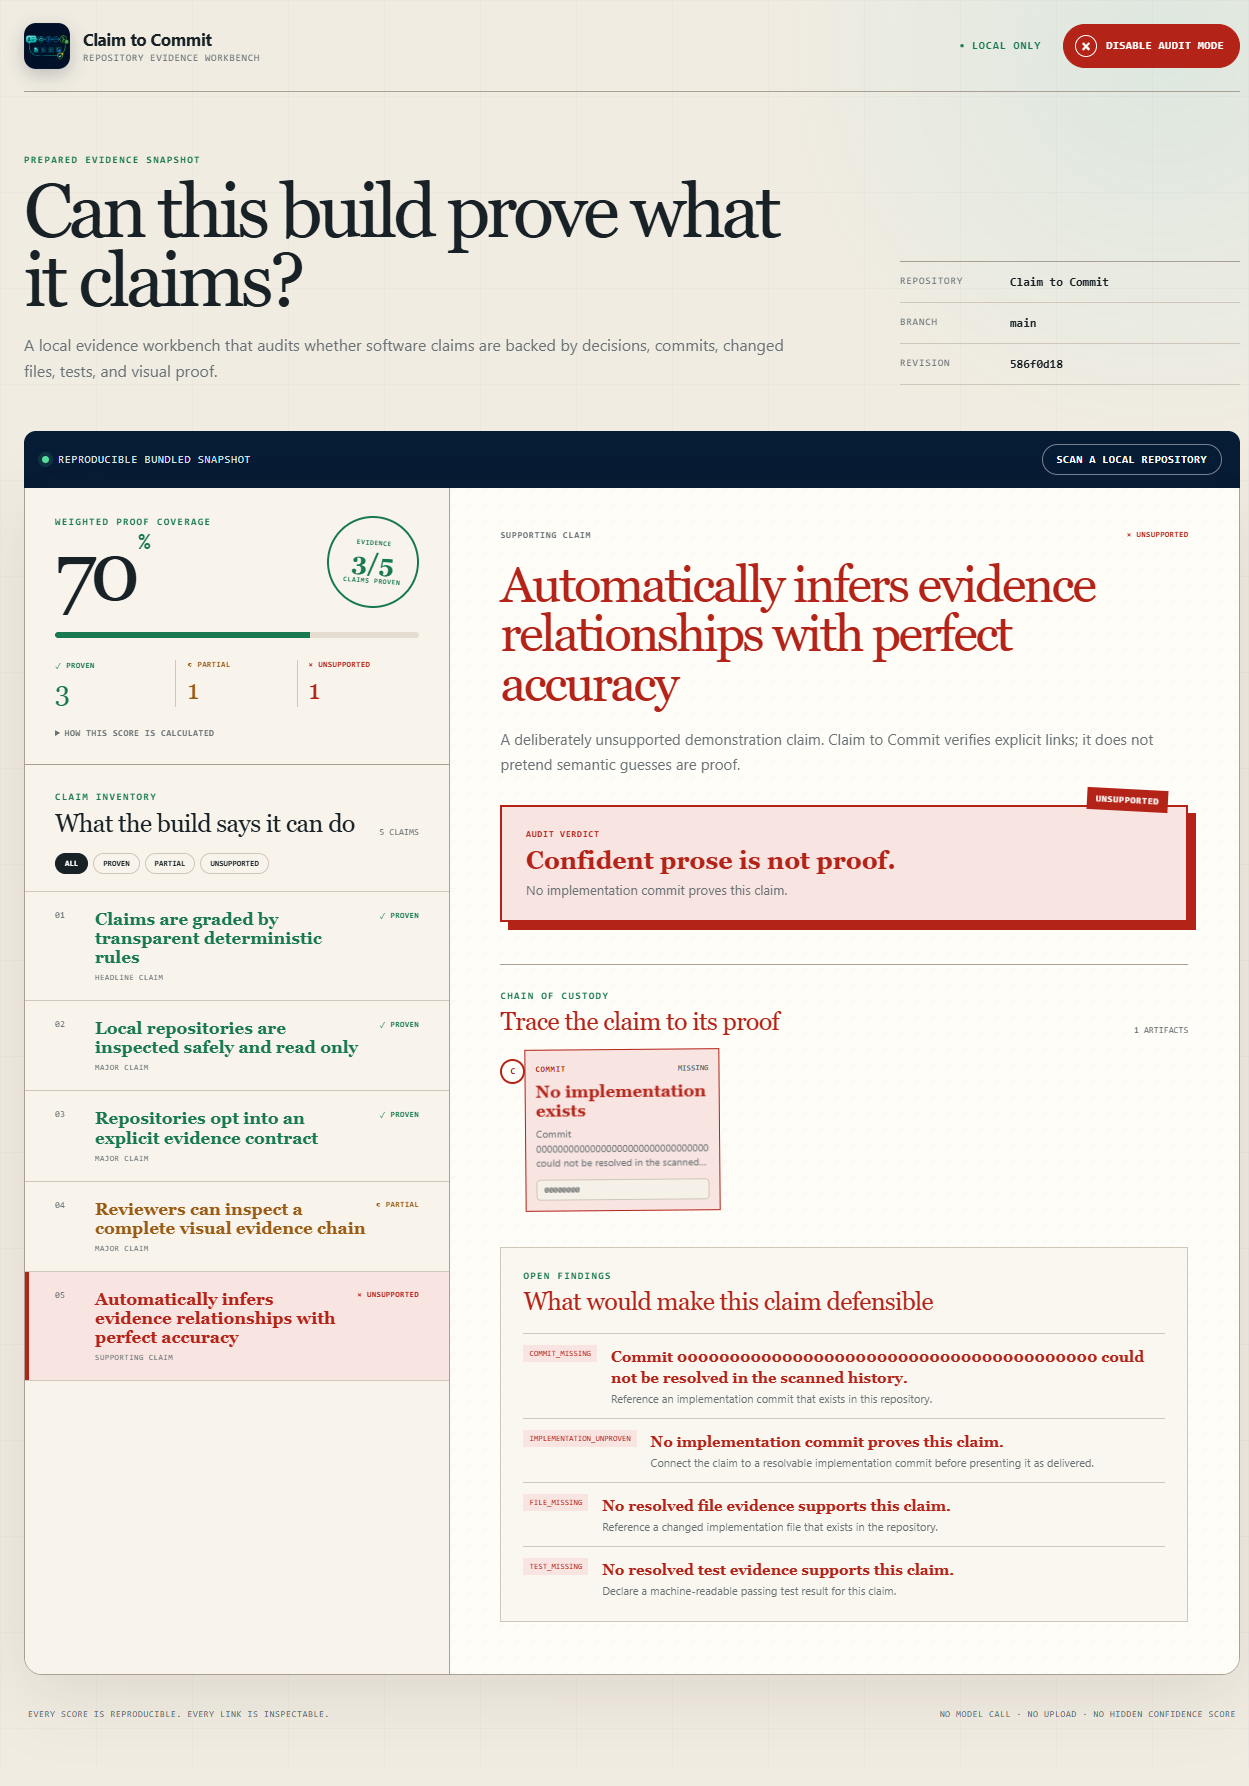
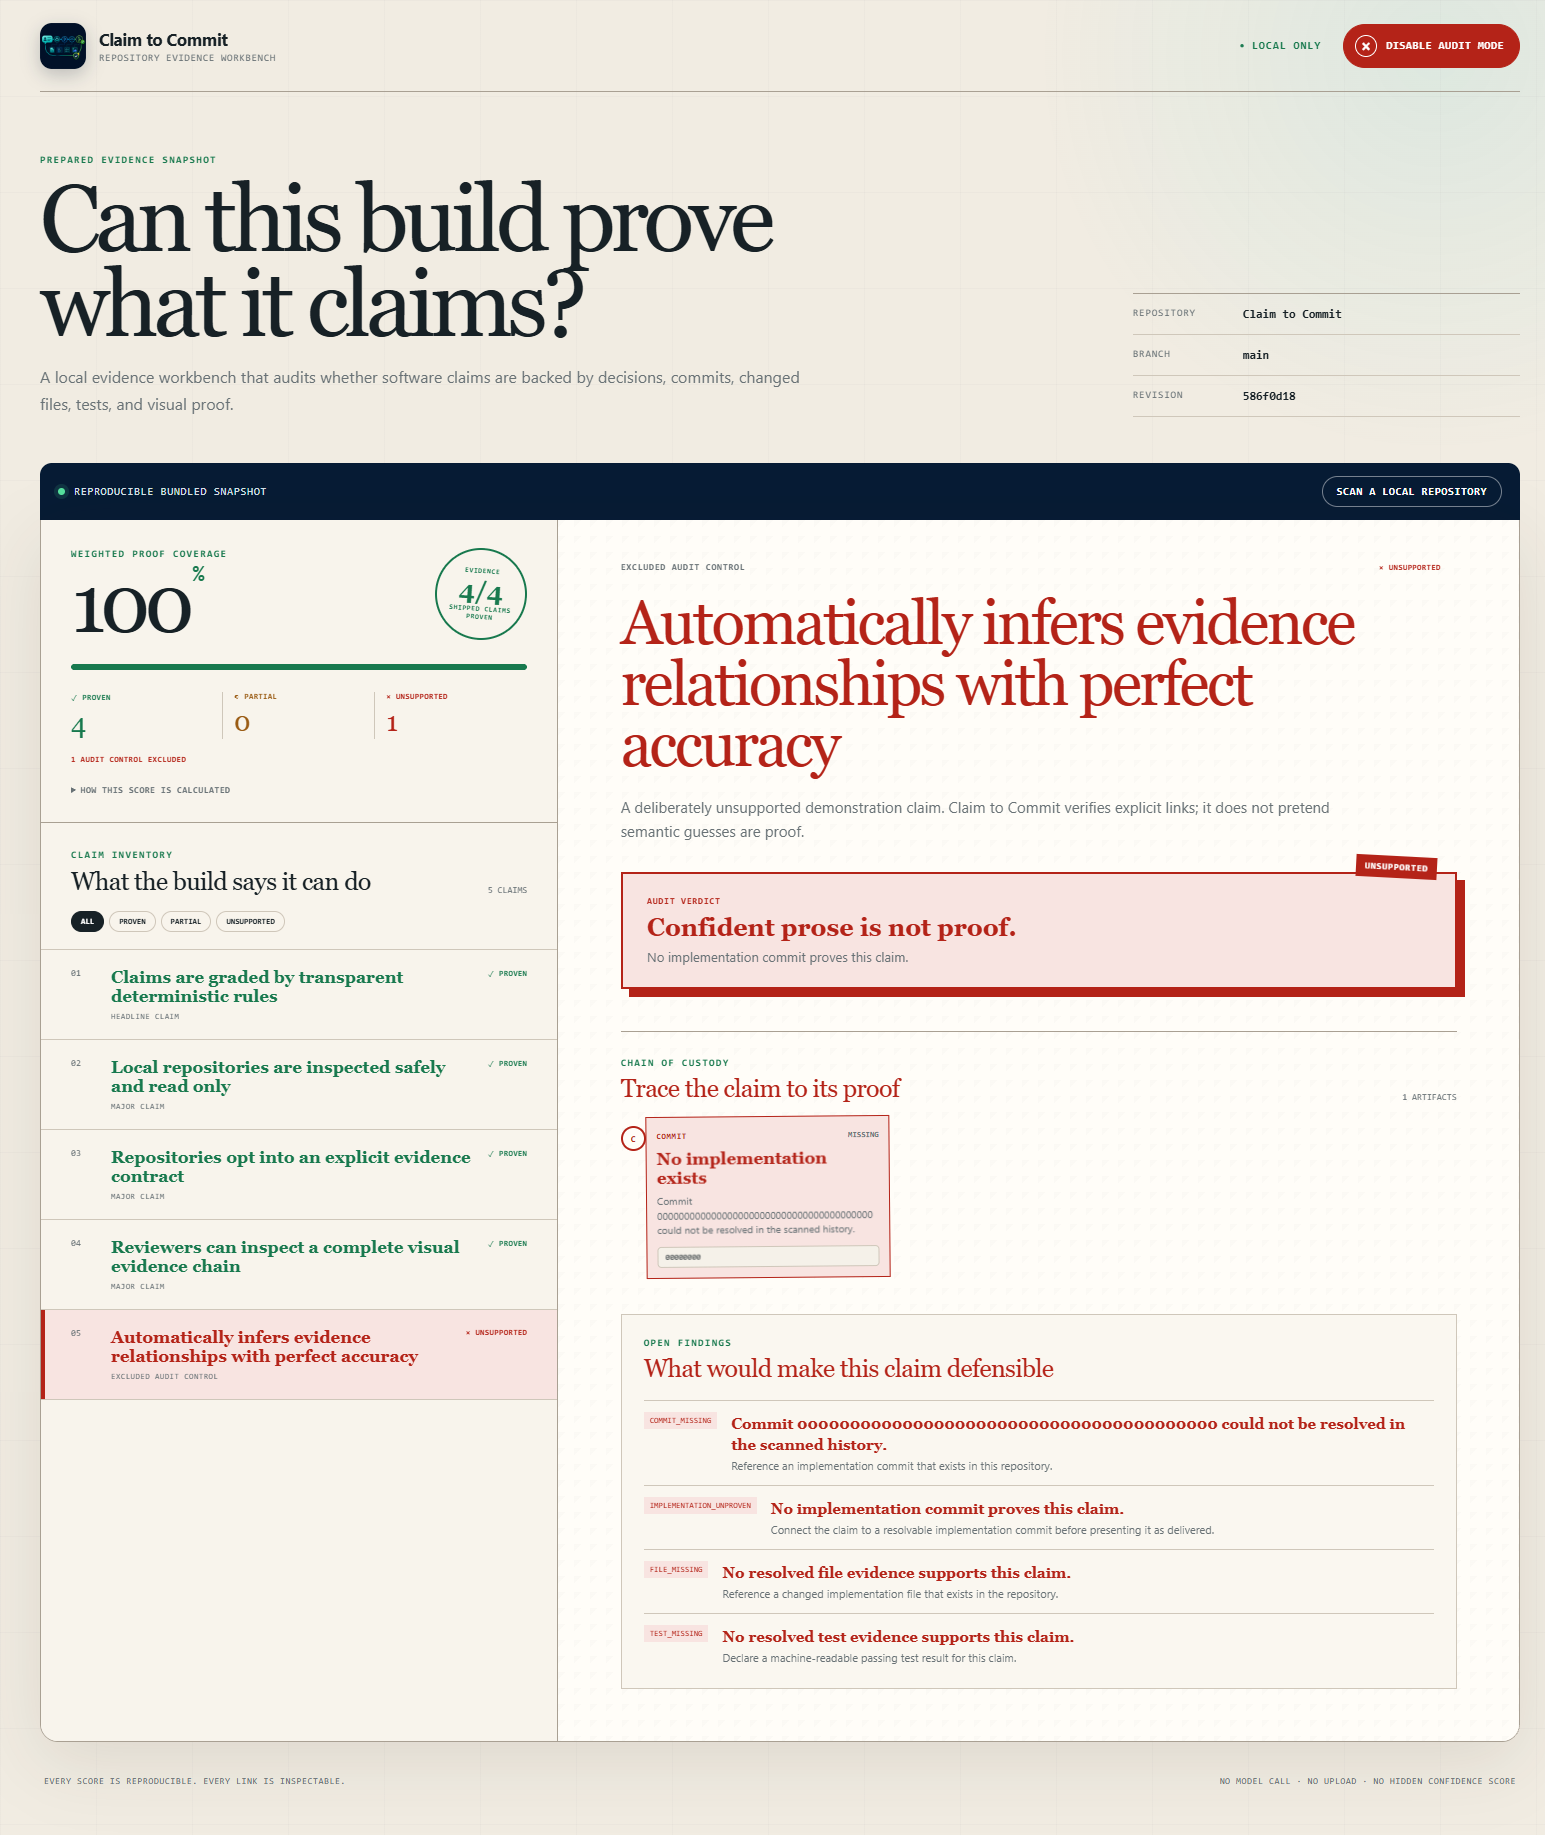
docs: present the verified 100 percent self-audit

diff --git a/README.md b/README.md
@@ -28,8 +28,8 @@ The novel move is to make product claims the unit of review. A claim is not gree
 - Scans any local Git repository that opts in with `.claim-to-commit/evidence.json`.
 - Resolves decisions, declared Codex sessions, commits, changed-file attribution, test artifacts, and screenshots.
 - Uses read-only Git commands with argument arrays and rejects paths that escape the repository.
-- Calculates a reproducible weighted proof score: headline claims weigh 3, major claims 2, and supporting claims 1.
-- Reveals missing proof in **Audit Mode**, including an intentionally impressive but unsupported claim.
+- Calculates a reproducible weighted proof score: headline claims weigh 3, major claims 2, and supporting claims 1; explicitly declared negative controls are disclosed but excluded.
+- Reveals missing proof in **Audit Mode**, including an intentionally impressive but unsupported audit control.
 - Stores immutable scan results locally in SQLite; no repository content is uploaded.
 - Audits its own Build Week repository with real decisions, dated commits, tests, and screenshots.
 
@@ -73,14 +73,14 @@ The committed `fixtures/demo-scan.json` is seed data, so the complete product ex
 3. Follow its six nodes from **Decision** through **Screenshot**.
 4. Expand **How this score is calculated** in the left scorecard.
 
-Expected: the claim is **proven**, every node says **Verified**, and the bundled snapshot reports a 70% weighted proof score.
+Expected: the claim is **proven**, every node says **Verified**, and the bundled snapshot reports **100%** weighted proof coverage with **4/4 shipped claims proven**.
 
 ### Test 2: expose confident prose without proof
 
 1. Click **Enable Audit Mode** in the header.
 2. Select **Automatically infers evidence relationships with perfect accuracy**.
 
-Expected: the unsupported row and missing evidence become red, the verdict says **Confident prose is not proof**, and the open finding explains what evidence would make the claim defensible.
+Expected: the excluded audit control and its missing evidence become red, the verdict says **Confident prose is not proof**, and the open finding explains what evidence would make it defensible. The score remains 100% because the control is visibly excluded from shipped scope.
 
 ### Test 3: make the project audit itself
 
@@ -89,7 +89,7 @@ Expected: the unsupported row and missing evidence become red, the verdict says 
 3. Click **Run evidence scan**.
 4. Select **Reviewers can inspect a complete visual evidence chain**.
 
-Expected: the page changes from **Reproducible bundled snapshot** to **Fresh local scan**, the live self-audit reports 90%, the visual claim is proven, and the deliberately unimplemented semantic-inference claim remains unsupported.
+Expected: the page changes from **Reproducible bundled snapshot** to **Fresh local scan**, the live self-audit reports **100%**, all four shipped claims are proven, and the deliberately unimplemented semantic-inference control remains unsupported and excluded.
 
 ### Automated verification
 
@@ -97,7 +97,7 @@ Expected: the page changes from **Reproducible bundled snapshot** to **Fresh loc
 npm run check
 ```
 
-Expected: 9 test files and 39 tests pass, both TypeScript configurations type-check, and the production client/server build succeeds. The committed summary is in `artifacts/test-results.json`.
+Expected: 9 test files and 43 tests pass, both TypeScript configurations type-check, and the production client/server build succeeds. The committed summary is in `artifacts/test-results.json`.
 
 ## Evidence contract
 
@@ -126,6 +126,8 @@ A repository opts in with `.claim-to-commit/evidence.json`. Relationships are de
 
 The complete schema and a real self-audit are in `.claim-to-commit/evidence.json`. Unsafe relative paths, duplicate identifiers, unknown evidence types, and malformed revisions fail validation with actionable messages.
 
+A deliberately invalid negative control can declare `"scoring": "excluded-control"`. It still resolves to partial or unsupported, remains visible in Audit Mode, and shows all findings, but it never enters the shipped-claim score. The formula and exclusion count are displayed beside the score.
+
 ## Architecture
 
 | Layer | Responsibility |
@@ -145,7 +147,7 @@ The UI and API share TypeScript evidence types. Scanning is local-only: the serv
 - **Partial:** some evidence resolves, but at least one proof requirement is missing or invalid.
 - **Unsupported:** no implementation proof resolves.
 
-The score is the sum of weights for proven claims divided by the total claim weight. There is no hidden model call and no opaque confidence score.
+The score is the sum of weights for proven shipped claims divided by total shipped-claim weight. Declared audit controls remain visible but are excluded from both numerator and denominator. There is no hidden model call and no opaque confidence score.
 
 ## How Codex built this
 
@@ -162,6 +164,7 @@ The collaboration is visible in the dated commit history:
 - `d5e8d7e`: Codex added production serving, the one-command demo, committed screenshots, and a live self-audit regression test.
 - `81120c2`: Codex assembled the README, timed video script, concise Devpost description, and requirement-mapped checklist.
 - `aa279ef` and `cd07e32`: a true clean-clone test exposed a machine-level npm policy conflict; Codex narrowed the approved native install step and isolated the locked install from user configuration.
+- `8039622`: after reviewer feedback, Codex added tested negative-control semantics so shipped scope reports 100% without hiding the unsupported Audit Mode demonstration.
 
 The human decisions were the audience and trust problem, the Claim to Commit concept, local-only scope, deterministic convention-based evidence, npm portability, the icon/art direction, the Audit Mode reveal, and the explicit exclusion of auth, payments, hosted integrations, and semantic inference. Those choices are recorded in `DECISIONS.md`. Codex accelerated specification, implementation, test design, visual iteration, browser verification, documentation, and the disciplined commit trail; the product and scope calls remained human-owned.
 

diff --git a/DEMO.md b/DEMO.md
@@ -13,7 +13,7 @@ Target runtime: **2:55**. The video must be public on YouTube, three minutes or 
 
 ## 0:00–0:20 — hook: the review problem
 
-**Screen:** Start on the full Claim to Commit workbench. Keep the 70% proof score and claim inventory visible.
+**Screen:** Start on the full Claim to Commit workbench. Keep the 100% proof score, **4/4 shipped claims proven** seal, and claim inventory visible.
 
 **Narration:**
 
@@ -38,11 +38,11 @@ Target runtime: **2:55**. The video must be public on YouTube, three minutes or 
 1. Scroll to the top.
 2. Click **Enable Audit Mode**.
 3. Click **Automatically infers evidence relationships with perfect accuracy**.
-4. Pause on the red **Confident prose is not proof** verdict, then point to `IMPLEMENTATION_UNPROVEN`.
+4. Pause on the **excluded audit control** label, the red **Confident prose is not proof** verdict, and `IMPLEMENTATION_UNPROVEN`.
 
 **Narration:**
 
-> Now I turn on Audit Mode and select an impressive-sounding claim. It turns red immediately. Claim to Commit found prose and a session reference, but no attributable implementation or passing test. Instead of hiding uncertainty, it tells the reviewer exactly what would make the claim defensible.
+> Now I turn on Audit Mode and select an impressive-sounding negative control. It turns red immediately. Claim to Commit found no attributable implementation or passing test. The control stays visible, but the score remains one hundred percent because it was never presented as shipped scope. Instead of hiding uncertainty, the tool discloses the exclusion and tells the reviewer exactly what would make the claim defensible.
 
 ## 1:25–2:05 — live self-audit
 
@@ -51,12 +51,12 @@ Target runtime: **2:55**. The video must be public on YouTube, three minutes or 
 1. Click **Scan a local repository**.
 2. Paste `C:\Users\andreab\claim-to-commit` into **Repository path**.
 3. Click **Run evidence scan**.
-4. When **Fresh local scan** appears, point to the 90% score.
+4. When **Fresh local scan** appears, point to the 100% score and **1 audit control excluded** disclosure.
 5. Select **Reviewers can inspect a complete visual evidence chain** and briefly show its verified screenshot node.
 
 **Narration:**
 
-> This is not only a prepared mock. I am scanning this project's own Git repository. Inspection stays local and read only. The live revision scores ninety percent: every capability we actually shipped is proven, including this interface and screenshot, while the deliberately unbuilt semantic-inference claim remains unsupported. The product demonstrates its own evidence standard.
+> This is not only a prepared mock. I am scanning this project's own Git repository. Inspection stays local and read only. The live revision scores one hundred percent: all four capabilities we shipped are proven, including this interface and screenshot, while the deliberately unbuilt semantic-inference control remains unsupported and explicitly excluded. The product demonstrates its own evidence standard.
 
 ## 2:05–2:20 — explain the practical workflow
 
@@ -64,7 +64,7 @@ Target runtime: **2:55**. The video must be public on YouTube, three minutes or 
 
 **Narration:**
 
-> A team opts in with one strict JSON manifest. Headline, major, and supporting claims have public weights, scan results are stored locally, and unsafe paths are rejected. No account, API key, hosted service, or repository upload is required.
+> A team opts in with one strict JSON manifest. Shipped claims have public weights, negative controls require an explicit exclusion, scan results are stored locally, and unsafe paths are rejected. No account, API key, hosted service, or repository upload is required.
 
 ## 2:20–2:50 — how Codex and GPT-5.6 built it
 
@@ -90,4 +90,3 @@ Target runtime: **2:55**. The video must be public on YouTube, three minutes or 
 - [ ] Codex workflow, GPT-5.6 use, and human decisions are named specifically.
 - [ ] No secrets, personal notifications, third-party trademarks, or copyrighted music appear.
 - [ ] Final upload is a **public** YouTube video.
-

diff --git a/SUBMISSION-CHECKLIST.md b/SUBMISSION-CHECKLIST.md
@@ -73,7 +73,8 @@ Official reference: [OpenAI Build Week FAQ](https://openai.devpost.com/details/f
 
 ## Final technical gate
 
-- [x] Current checkpoint passes 9 test files / 39 tests, type-checks, and builds.
-- [x] Production smoke test returns HTTP 200, health `ok`, bundled score 70, and five claims.
-- [x] Fresh-clone verification passed: first-command install/build/start, HTTP 200, bundled 70% audit, live 90% self-audit, 9 test files / 39 tests, type-check, production build, and clean Git status.
+- [x] Current checkpoint passes 9 test files / 43 tests, type-checks, and builds.
+- [x] Bundled and live audits report 100% shipped-claim coverage, with four proven claims and one visibly excluded unsupported control.
+- [x] Production smoke test returns HTTP 200, health `ok`, bundled score 100, and five visible entries.
+- [x] Previous fresh-clone verification passed first-command install/build/start, HTTP checks, full tests, type-check, production build, and clean Git status; repeat after the 100% scoring commit before final handoff.
 - [x] Final secret scan found no credential/private-key patterns, no environment files are tracked, and `npm audit --omit=dev` reports zero vulnerabilities; confirm the post-push Git status in the handoff.

diff --git a/DESCRIPTION.md b/DESCRIPTION.md
@@ -6,9 +6,8 @@ Claim to Commit is a local evidence workbench for engineering leads, hackathon r
 
 Repositories opt in with a strict evidence manifest. Claim to Commit resolves each declared chain—human decision → Codex session → commit → changed file → passing test → screenshot—and grades the claim as proven, partial, or unsupported. Its weighted proof score is deterministic and fully disclosed: there is no hidden model call or opaque confidence score.
 
-The three-minute wow moment is Claim to Commit auditing its own Build Week repository. A real headline feature expands into six verified artifacts. Then Audit Mode exposes an impressive claim—“perfectly infers evidence relationships”—as unsupported because it has no attributable implementation or passing test. Confident prose becomes visibly red, with exact remediation guidance.
+The three-minute wow moment is Claim to Commit auditing its own Build Week repository at 100% shipped-claim coverage. A real headline feature expands into six verified artifacts. Then Audit Mode exposes an explicit negative control—“perfectly infers evidence relationships”—as unsupported because it has no attributable implementation or passing test. Confident prose becomes visibly red with exact remediation guidance, while the formula discloses that the control is excluded from shipped scope.
 
 The tool is complete and local-first: read-only Git inspection, safe repository-relative paths, immutable SQLite scan history, a bundled zero-setup audit, live self-scan, responsive React workbench, and 39 automated tests. It requires no account, API key, paid service, or repository upload.
 
 The project was built from an empty repository in one primary Codex session using GPT-5.6. Codex accelerated the product contract, schema, Git adapters, deterministic audit engine, test suite, interface, browser verification, and submission assets. I made the central product and design decisions: the real reviewer audience, explicit evidence over semantic guessing, local-only architecture, public scoring rules, Audit Mode reveal, and disciplined scope.
-